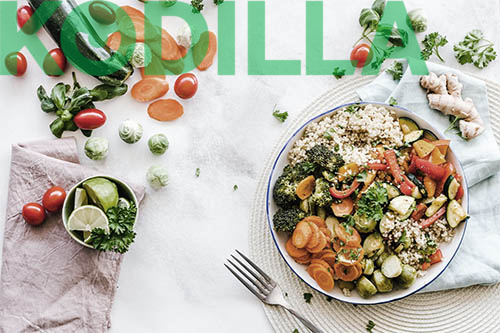
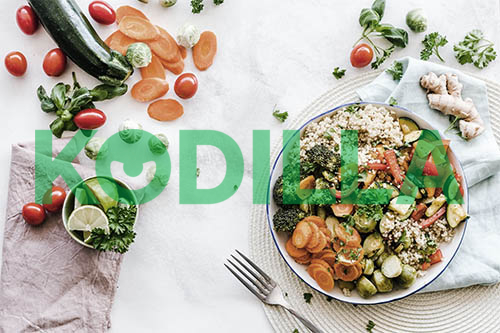
Modify func addImageWatermarkToImage - text on center

Changed region(s): [[0.0, 0.0, 0.87, 0.2402], [0.06, 0.3904, 0.93, 0.6306]]

diff --git a/app.js b/app.js
@@ -18,8 +18,10 @@ addTextWatermarkToImage('./test.jpg', './test-with-watermark.jpg', 'Hello world'
 const addImageWatermarkToImage = async function(inputFile, outputFile, watermarkFile) {
   const image = await Jimp.read(inputFile);
   const watermark = await Jimp.read(watermarkFile);
+  const x = image.getWidth() / 2 - watermark.getWidth() / 2;
+  const y = image.getHeight() / 2 - watermark.getHeight() / 2;
 
-  image.composite(watermark, 0, 0, {
+  image.composite(watermark, x, y, {
     mode: Jimp.BLEND_SOURCE_OVER,
     opacitySource: 0.5,
   });
